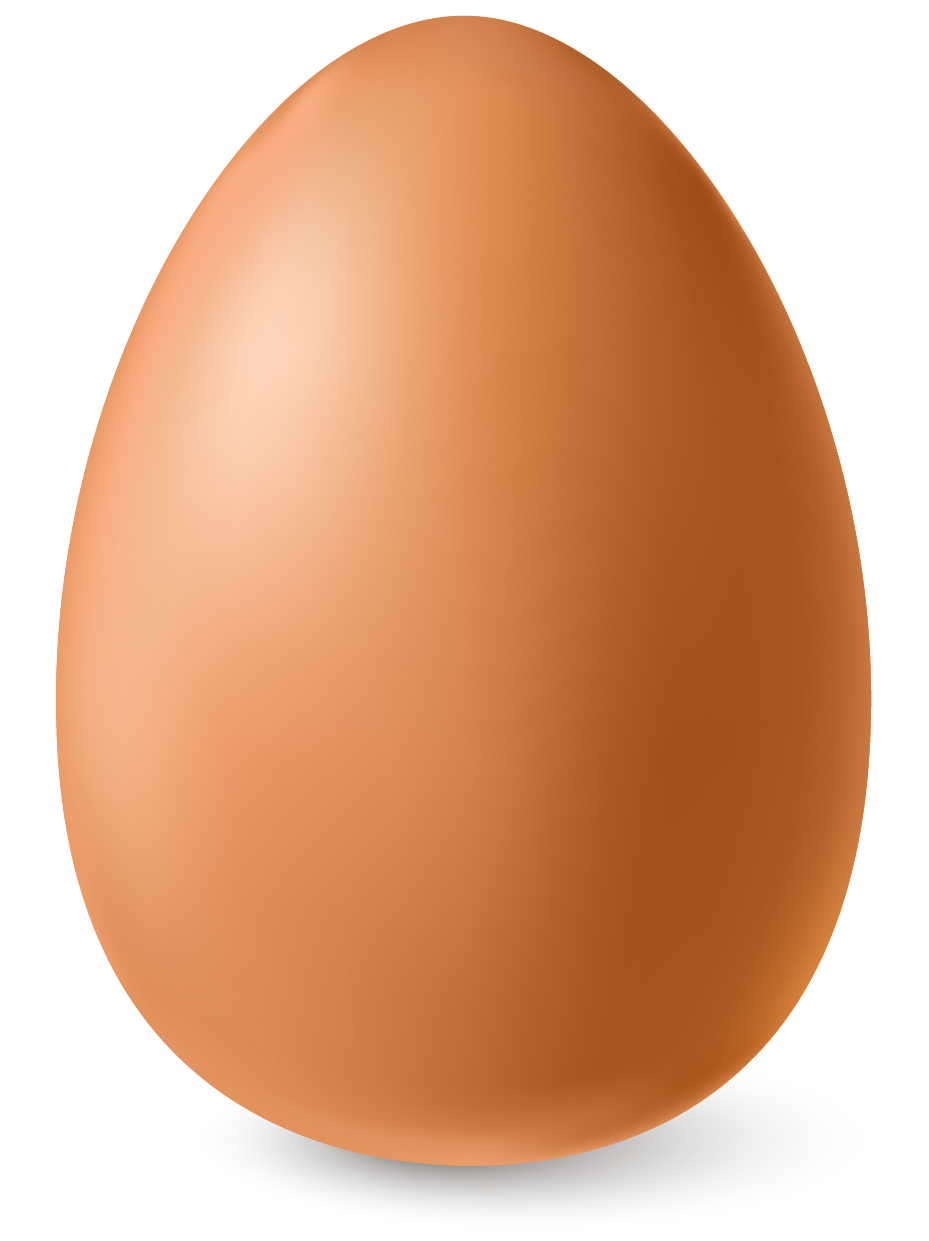
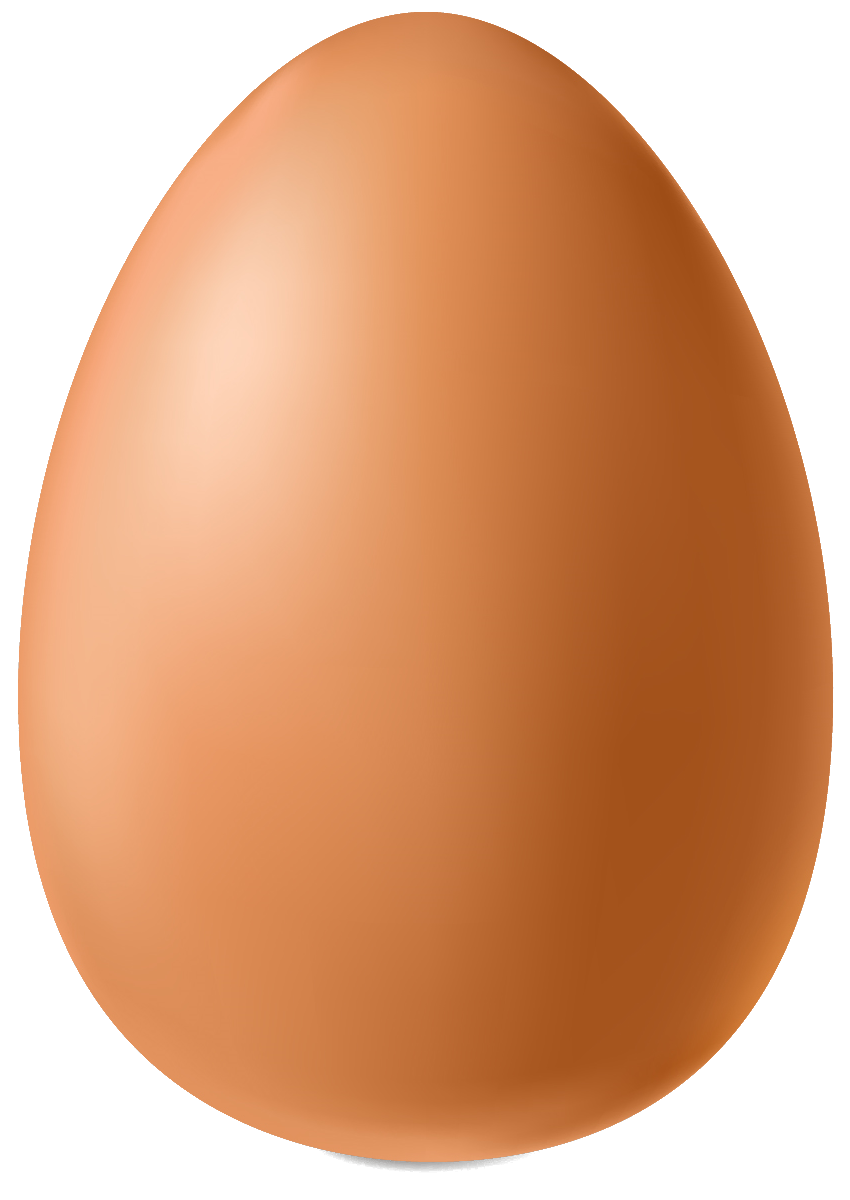
avancement oeuf premiere anim

diff --git a/src/Components/Oeuf.js b/src/Components/Oeuf.js
@@ -1,40 +1,44 @@
-import React, { useState } from 'react'
+import React, { useState, useRef } from 'react'
 import './Oeuf.css'
+import Activity from './Activity'
 import egg1 from '../images/egg1.png'
 import egg2 from '../images/egg2.png'
 import egg3 from '../images/egg3.png'
 import egg41 from '../images/egg4-1.png'
-import egg42 from '../images/egg4-2.png'
+import egg42front from '../images/egg42front.png'
+import egg42back from '../images/egg42back.png'
 
 export default function Oeuf() {
 
     const nbClickMax = 10;
     const [nbClick, setNbClick] = useState(1);
 
+
     const tapeOeuf = e => {
         setNbClick(prevNbClick => prevNbClick + 1);
     }
 
-    const eggProgress = () => {
-
-        if (nbClick / nbClickMax * 100 < 25) {
-            return (<img src={egg1} alt="egg" />)
-        } else if (nbClick / nbClickMax * 100 < 60) {
-            return(<img src={egg2} alt="egg" />)
-        } else if (nbClick / nbClickMax * 100 < 100) {
-            return (<img src={egg3} alt="egg" />)
-        } else if (nbClick / nbClickMax * 100 >= 100) {
-                return (<div>
-                    <img src={egg41} alt="egg" />
-                    <img src={egg42} alt="egg" />
-                    </div>)
-        }
-    }
 
     return (
-        <div className="Oeuf" onClick={tapeOeuf}>
-            {eggProgress()}
-        </div>
+        <div className="Oeufapp">
+            <div className="Oeufanim">
+                
+                <img src={egg42back} className={`Oeuf ${nbClick===10&& "down"}`}></img>
+                <Activity/>
+                <img src={egg41} className={`Oeuf ${nbClick===10&& "up"}`} ></img>
+                <img src={egg42front} className={`Oeuf ${nbClick===10&& "down"}`}></img>
 
+            </div>
+
+            {(nbClick < 10) && (<img src={egg3} className="Oeuf" onClick={tapeOeuf}>
+            </img>)}
+
+            {(nbClick < 5) && (<img src={egg2} className="Oeuf" onClick={tapeOeuf}>
+            </img>)}
+
+            {(nbClick < 2) && (<img src={egg1} className="Oeuf" onClick={tapeOeuf}>
+            </img>)}
+
+        </div>
     )
 }

diff --git a/src/Components/Activity.js b/src/Components/Activity.js
@@ -1,13 +1,15 @@
-import React, {useState} from 'react'
+import React, { useState } from 'react'
 import './Activity.css'
+
 
 export default function Activity() {
     return (
-        <div className="card Activity m-3">
-            <img className="card-img-top" src="https://cdn-tam.ouest-france.fr/media/cache/thumb_400/recette-de-la-pate-a-modeler-tete-a-modeler.jpeg" alt="Card image cap"/>
-            <div className="card-body">
-                <p className="card-text">Lorem ipsum dolor sit amet.</p>
+         
+        <div className="Activity">
+            <img className="imageActivity"src="https://cdn-tam.ouest-france.fr/media/cache/thumb_400/recette-de-la-pate-a-modeler-tete-a-modeler.jpeg" alt="Card image cap" />
+            <div >
+                <p className="btn btn-secondary">Pate a modeler</p>
             </div>
-        </div>
+        </div >
     )
 }

diff --git a/src/Components/Oeuf.css b/src/Components/Oeuf.css
@@ -1,10 +1,39 @@
 .Oeuf {
-    background-color: bisque;
-    width: 100px;
-    height: 200px;
-    border-radius: 50%;
+    width: 100%;
     position: absolute;
+    margin-top: 0;
+    transition-property: margin-top, opacity;
+    transition-duration: 1s,2s;
+    transform-style: ease-out;
+    transition-delay: 0s,1s;
+    opacity: 1;
 }
-img {
-    width: 18rem;
+.Oeufanim {
+    width: 100%;
+    position: absolute;
+    display: flex;
+    align-items: center;
+    justify-content: center;
+
+}
+
+.Oeufapp {
+    width: 300px;
+    height: 500px;
+    position: relative;
+    top:50%;
+    left:50%;
+    transform: translate(-50%, -50%);
+    display: flex;
+    align-items: center;
+    justify-content: center;
+}
+
+.up {
+    margin-top: -200px;
+    opacity:0;
+}
+
+.down {
+    opacity:0;
 }

diff --git a/src/Components/Main.js b/src/Components/Main.js
@@ -1,5 +1,4 @@
 import React, { Fragment } from 'react'
-import Activity from './Activity';
 import Oeuf from './Oeuf';
 import './Main.css'
 
@@ -7,7 +6,6 @@ export default function Main() {
 
     return (
         <div className="main">
-            <Activity />
             <Oeuf />
         </div>
     )

diff --git a/src/Components/Main.css b/src/Components/Main.css
@@ -1,6 +1,13 @@
 .main {
+    position:relative;
+    padding:0;
+    margin:0;
+
+    top:0;
+    left:0;
+
+    width: 100%;
+    height: 100%;
     position: relative;
-    display: flex;
-    align-items: center;
-    justify-content: center;
+
 }

diff --git a/src/App.js b/src/App.js
@@ -1,6 +1,7 @@
 import React, {UseState} from 'react'
 import Main from './Components/Main'
 import 'bootstrap/dist/css/bootstrap.min.css'
+import './App.css'
 
 export default function App() {
   return (

diff --git a/src/Components/Activity.css b/src/Components/Activity.css
@@ -1,5 +1,7 @@
 .Activity {
-    width: 18rem;
-    position: absolute;
-
+    width: 12rem;
+}
+.imageActivity {
+    width:100%;
+    border-radius: 25px;
 }

diff --git a/src/App.css b/src/App.css
@@ -1,0 +1,11 @@
+#root {
+    position:fixed;
+    padding:0;
+    margin:0;
+
+    top:0;
+    left:0;
+
+    width: 100%;
+    height: 100%;
+}
